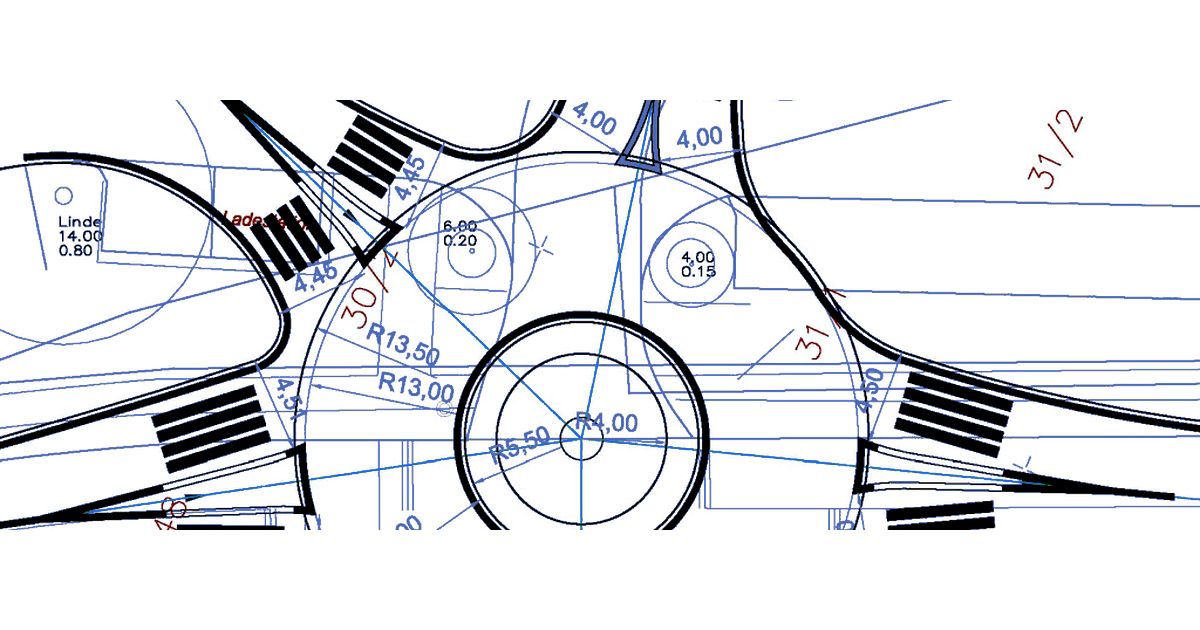
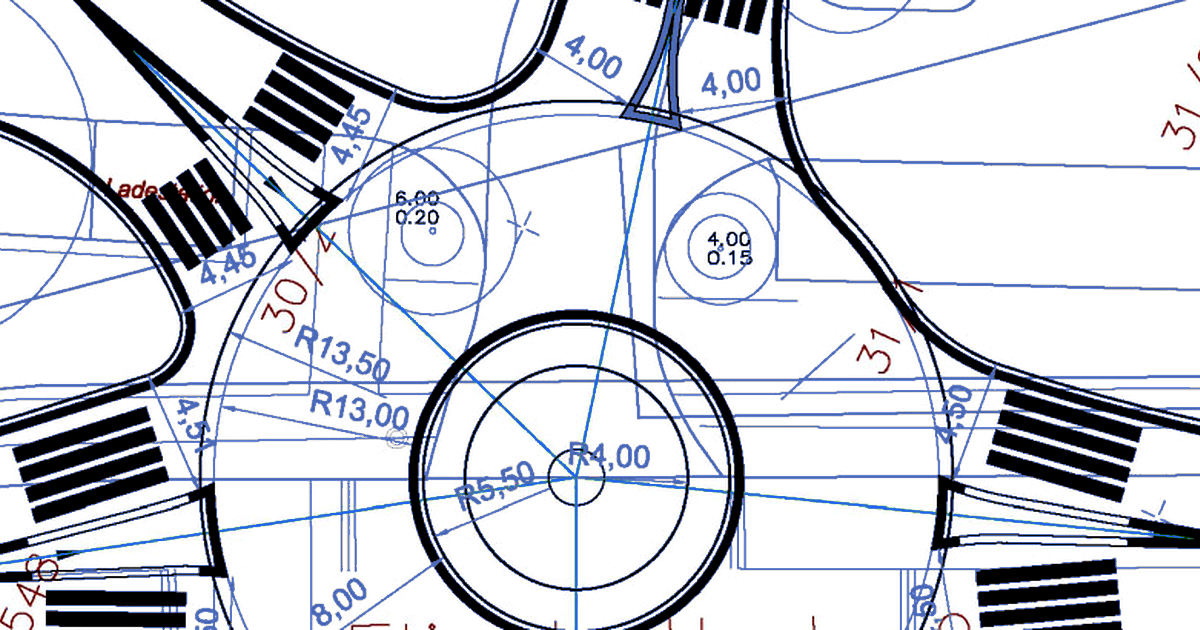
Refine preview image and clean legal URLs

diff --git a/index.html b/index.html
@@ -36,13 +36,13 @@
       content="https://augustinfink.de/public/og-preview.png"
     />
     <title>Augustin Fink</title>
-    <link rel="icon" href="./public/favicon.svg" type="image/svg+xml" />
-    <link rel="stylesheet" href="./src/styles.css" />
+    <link rel="icon" href="/public/favicon.svg" type="image/svg+xml" />
+    <link rel="stylesheet" href="/src/styles.css" />
   </head>
   <body>
     <main class="page-shell" aria-label="Augustin Fink">
       <header class="site-header">
-        <a class="wordmark" href="./" aria-label="Augustin Fink Startseite">
+        <a class="wordmark" href="/" aria-label="Augustin Fink Startseite">
           <span>Augustin</span>
           <span>Fink</span>
         </a>
@@ -52,7 +52,7 @@
         <h1>In Planung...</h1>
         <iframe
           class="roundabout-embed"
-          src="./public/assets/roundabout/kvp.html"
+          src="/public/assets/roundabout/kvp.html"
           title="Kreisverkehr Schleppkurve"
           loading="eager"
         ></iframe>
@@ -60,8 +60,8 @@
 
       <footer class="site-footer">
         <nav class="legal-links" aria-label="Rechtliches">
-          <a href="./impressum.html">Impressum</a>
-          <a href="./datenschutz.html">Datenschutz</a>
+          <a href="/impressum/">Impressum</a>
+          <a href="/datenschutz/">Datenschutz</a>
         </nav>
       </footer>
     </main>

diff --git a/src/styles.css b/src/styles.css
@@ -95,7 +95,7 @@ a {
   z-index: 1;
   max-width: 7.1ch;
   margin: 0 0 0 var(--inside-x);
-  font-size: clamp(3.99rem, 9.215vw, 10.26rem);
+  font-size: clamp(3.591rem, 8.2935vw, 9.234rem);
   line-height: 0.86;
   font-weight: 800;
   color: var(--ink);
